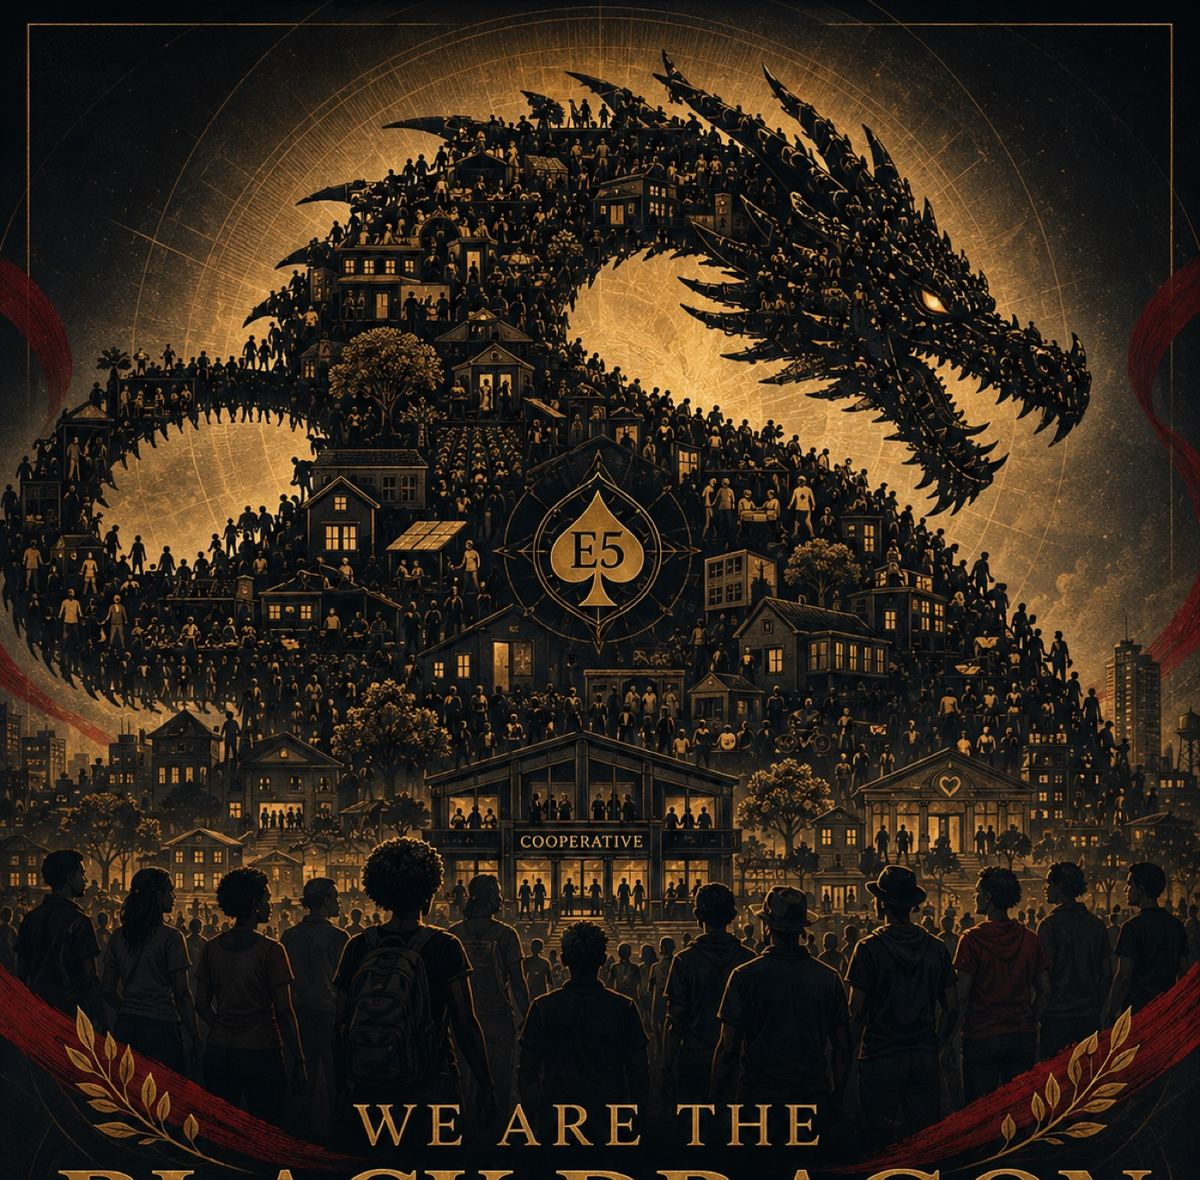
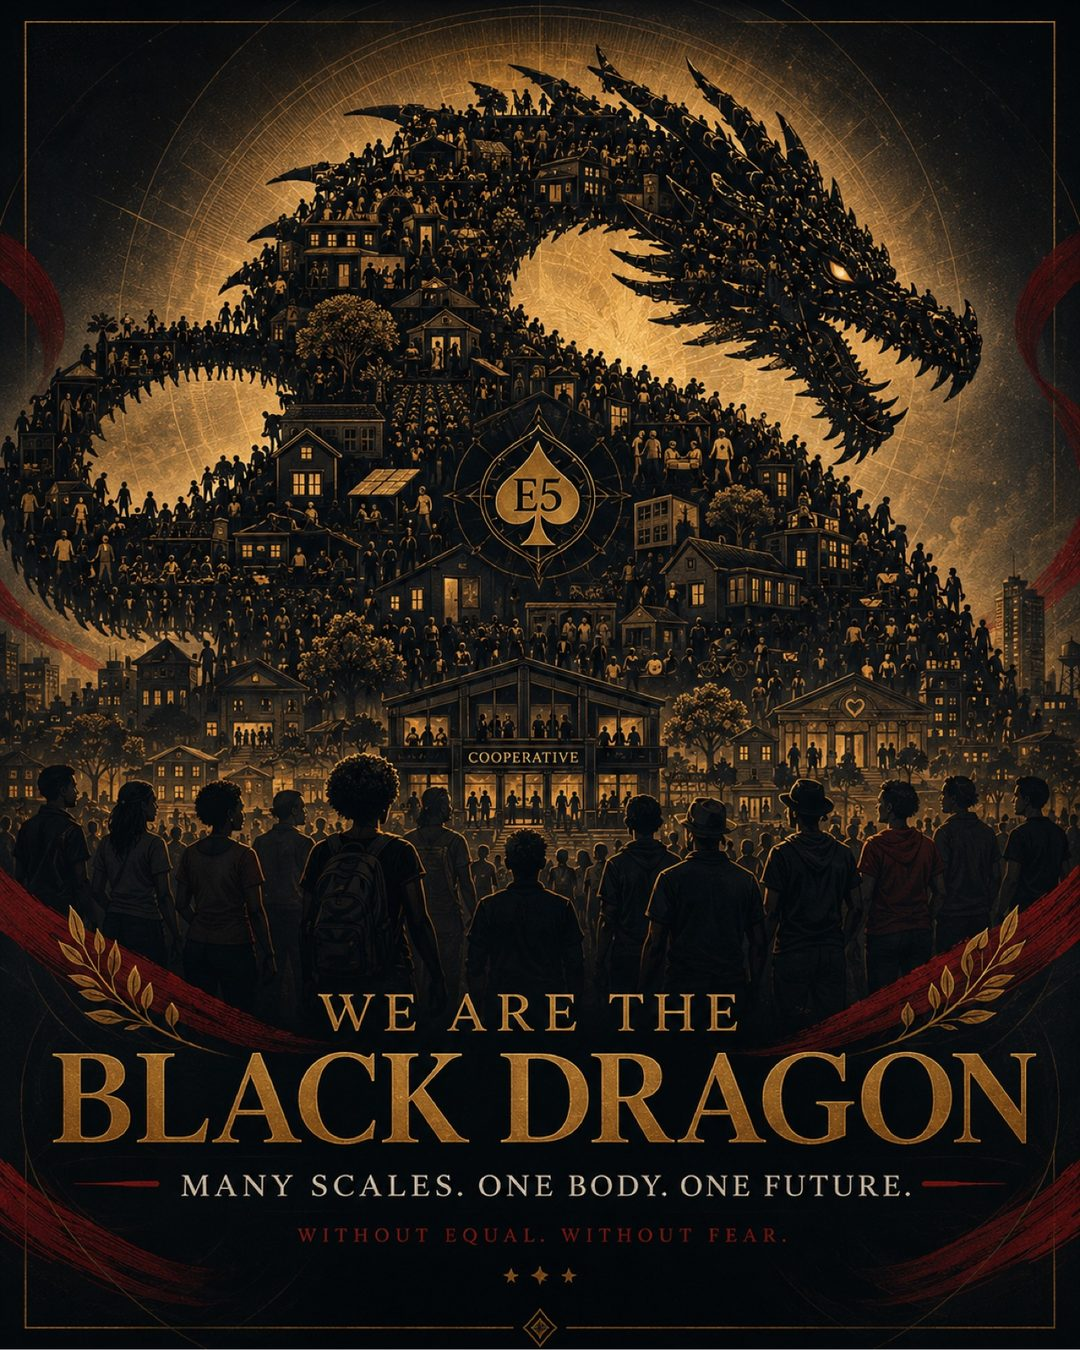
Black Dragons v50 polish: full people-dragon plate, tighter rhythm, rail scroll-spy fix, watermark presence

diff --git a/public/black-dragons-initiative/index.html b/public/black-dragons-initiative/index.html
@@ -134,7 +134,7 @@ html.js .reveal.pre.in.d3{transition-delay:.36s}
 @media(max-width:960px){.bd50-hero-inner{grid-template-columns:minmax(0,1fr);padding-top:120px}.bd50-emblem{width:min(64%,330px);order:-1}}
 
 /* ---------- chapter scaffolding ---------- */
-.bd50-chapter{padding:clamp(76px,9vw,150px) 0;position:relative;background:var(--bd-ink);border-bottom:1px solid var(--bd-rule-soft)}
+.bd50-chapter{padding:clamp(60px,6.5vw,110px) 0;position:relative;background:var(--bd-ink);border-bottom:1px solid var(--bd-rule-soft)}
 .bd50-chapter.alt{background:var(--bd-coal)}
 .bd50-grid{display:grid;grid-template-columns:clamp(72px,10vw,132px) minmax(0,1fr);gap:clamp(20px,4vw,72px)}
 .bd50-rail{position:relative;padding-right:clamp(12px,2vw,28px)}
@@ -179,7 +179,7 @@ html.js .reveal.pre.in.d3{transition-delay:.36s}
 .bd50-ledger-row .lk{font-family:var(--bd-mono);font-size:12px;letter-spacing:.2em;text-transform:uppercase;color:var(--bd-red-hot);font-weight:600}
 .bd50-ledger-row .lv{font-family:var(--bd-display);font-size:clamp(20px,2.2vw,30px);line-height:1.35;color:var(--bd-ivory)}
 @media(max-width:640px){.bd50-ledger-row{grid-template-columns:minmax(0,1fr);gap:8px}}
-.bd50-watermark{position:absolute;right:-4%;top:50%;transform:translateY(-50%);width:min(46vw,560px);opacity:.10;pointer-events:none;mask-image:radial-gradient(ellipse at center,#000 40%,transparent 72%);-webkit-mask-image:radial-gradient(ellipse at center,#000 40%,transparent 72%)}
+.bd50-watermark{position:absolute;right:0;top:50%;transform:translateY(-50%);width:min(46vw,560px);opacity:.17;pointer-events:none;mask-image:radial-gradient(ellipse at center,#000 52%,transparent 80%);-webkit-mask-image:radial-gradient(ellipse at center,#000 52%,transparent 80%)}
 
 /* fire interlude — pillar 02 */
 .bd50-fire{background:linear-gradient(155deg,#3d0b0e 0%,#7c181c 46%,#a3242a 72%,#5c1014 100%);border-top:2px solid var(--bd-red-hot);border-bottom:2px solid var(--bd-red-hot);overflow:hidden}
@@ -227,7 +227,7 @@ html.js .reveal.pre.in.d3{transition-delay:.36s}
 .bd50-prov{margin-top:28px;padding:20px 22px;border-left:3px solid var(--bd-red-hot);background:rgba(140,29,33,.14);font-size:13.5px;line-height:1.7;color:var(--bd-ivory-dim)}
 
 /* ---------- begin / ledger ---------- */
-.bd50-begin{background:var(--bd-ink);padding:clamp(84px,10vw,170px) 0;position:relative;overflow:hidden;border-bottom:1px solid var(--bd-rule-soft)}
+.bd50-begin{background:var(--bd-ink);padding:clamp(64px,7vw,120px) 0;position:relative;overflow:hidden;border-bottom:1px solid var(--bd-rule-soft)}
 .bd50-begin-art{position:absolute;left:50%;top:50%;transform:translate(-50%,-50%);width:min(1300px,150vw);opacity:.13;pointer-events:none;mask-image:radial-gradient(ellipse at center,#000 28%,transparent 68%);-webkit-mask-image:radial-gradient(ellipse at center,#000 28%,transparent 68%)}
 .bd50-begin-inner{position:relative;z-index:1}
 .bd50-begin-title{font-family:var(--bd-display);font-weight:500;font-size:clamp(46px,6.2vw,100px);line-height:1;letter-spacing:-.02em;margin:0 0 26px;color:var(--bd-ivory)}
@@ -806,13 +806,17 @@ html.js .reveal.pre.in.d3{transition-delay:.36s}
   var secs = ['ch-principles','ch-framework','ch-pillars','ch-mechanism','ch-record','ch-begin']
     .map(function(id){ return document.getElementById(id); }).filter(Boolean);
   if ('IntersectionObserver' in window && secs.length) {
+    // Highlight the chapter occupying the largest share of the central
+    // viewport band, so the rail tracks the section actually in view.
     var sio = new IntersectionObserver(function(es){
+      var best=null, bestR=0;
       es.forEach(function(e){
-        if (e.isIntersecting) {
-          links.forEach(function(a){ a.classList.toggle('on', a.getAttribute('data-spine') === e.target.id); });
-        }
+        if (e.isIntersecting && e.intersectionRatio > bestR) { bestR = e.intersectionRatio; best = e.target; }
       });
-    }, {rootMargin:'-40% 0px -55% 0px'});
+      if (best) {
+        links.forEach(function(a){ a.classList.toggle('on', a.getAttribute('data-spine') === best.id); });
+      }
+    }, {rootMargin:'-20% 0px -20% 0px', threshold:[0,.1,.2,.3,.4,.5,.6,.7,.8,.9,1]});
     secs.forEach(function(s){ sio.observe(s); });
   }
   // Chapter-interest intake
